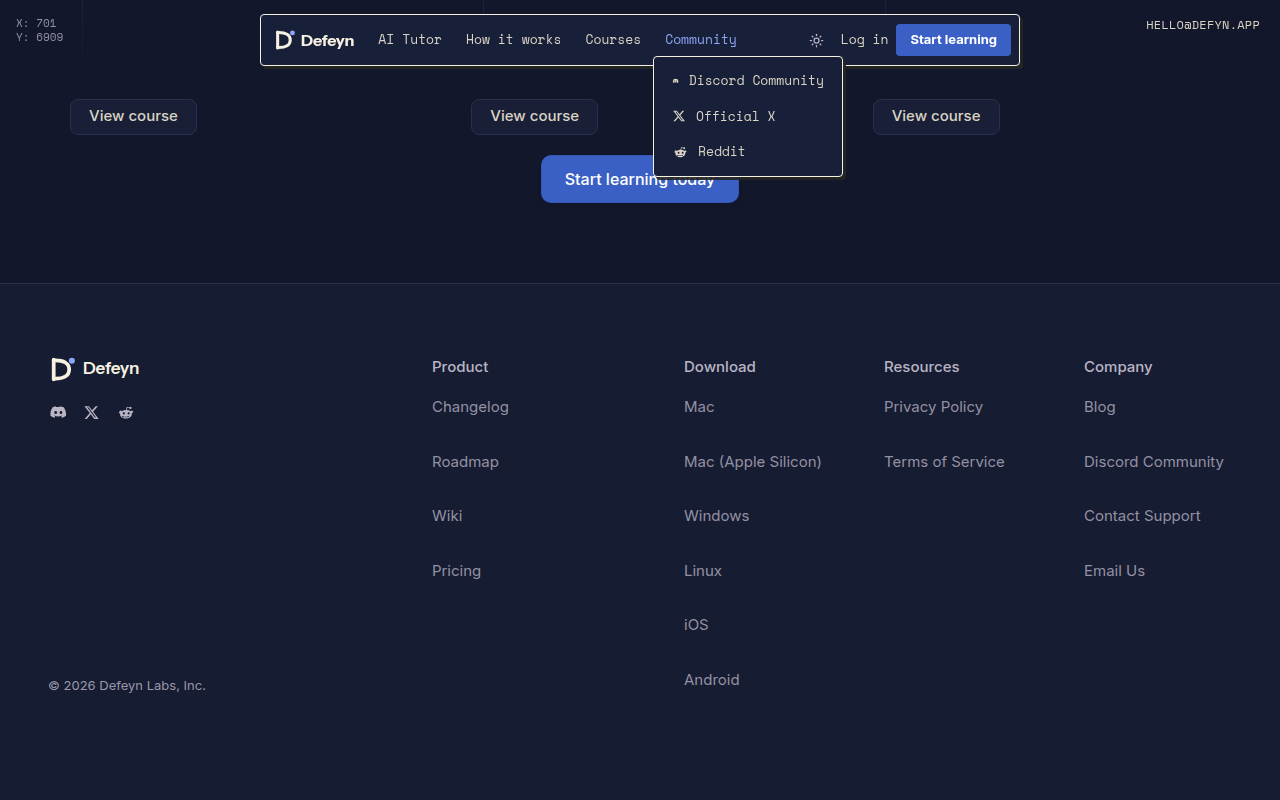
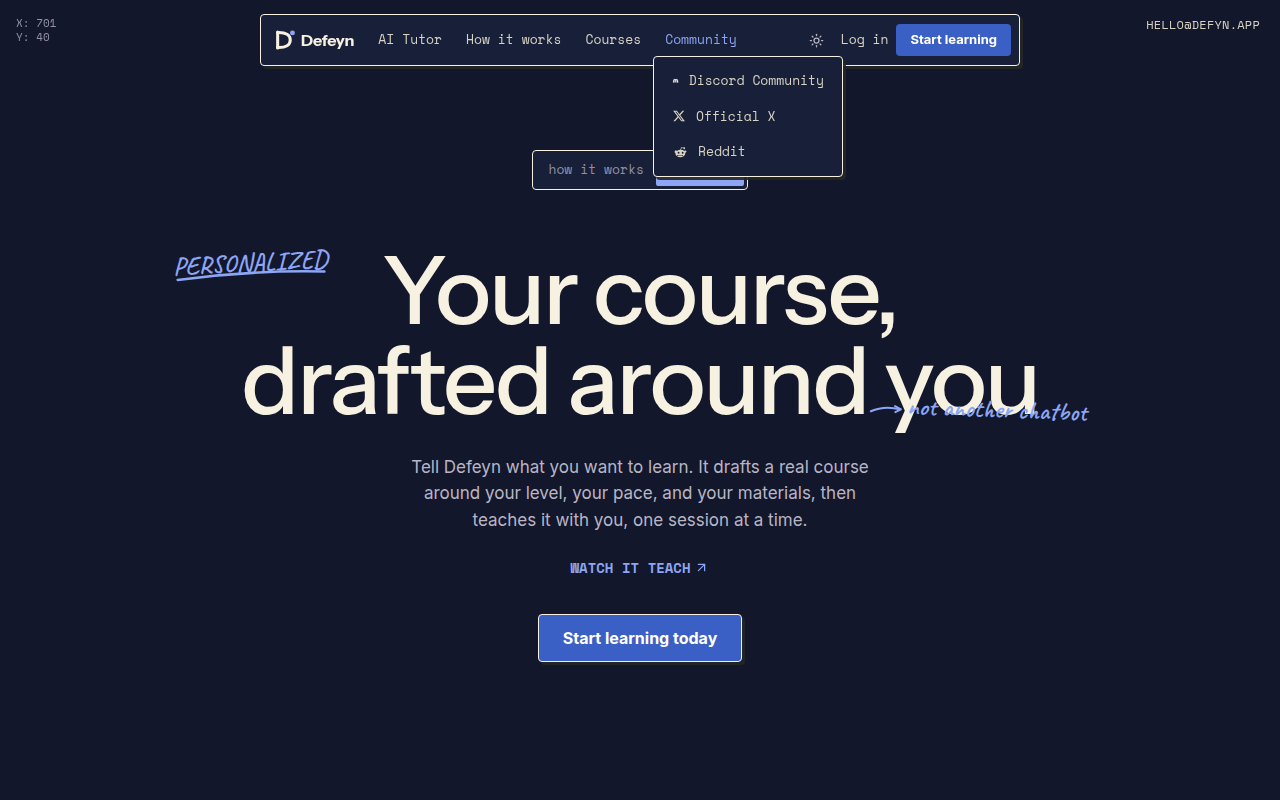
Standards review: sweep glossary copy and names
CONTEXT.md vocabulary is binding in user-visible copy: tutor replies and
the notes-handoff chip now say Cards/Citation (not 'note cards'/'source'),
the Board empty state drops 'notes', the LLM prompt can't leak 'note
cards' back into Card text, 'source unavailable' → 'Citation unavailable'
on a dead Card chip, and export.ts's whitespace-normalizer loses its
misleading 'escape' name. Remaining review findings are documented
judgement calls (quick-model slot is ticket-01 scope; wire-mirror types
are intentional).

diff --git a/server/src/tutor/engine.ts b/server/src/tutor/engine.ts
@@ -316,7 +316,7 @@ async function generateNotesCards(course: Course, doc: LessonDoc, topicIndex: nu
     {
       role: "system",
       content:
-        'You condense a lesson into note cards the learner can arrange on a canvas. Return JSON only: {"cards": [{"title": 2-5 words, "body": 1-2 sentences capturing that part\'s core, "part": <the Part number it came from>}]}. One to two cards per part. These are snapshots of the text — do not add new material.',
+        'You condense a lesson into Cards the learner can arrange on their Board. Return JSON only: {"cards": [{"title": 2-5 words, "body": 1-2 sentences capturing that part\'s core, "part": <the Part number it came from>}]}. One to two cards per part. These are snapshots of the text — do not add new material.',
     },
     {
       role: "user",
@@ -424,13 +424,13 @@ export async function* tutorTurnStream(
     if (context?.regenerate) {
       // regeneration never re-spawns Cards — the ones from the original turn
       // are already on the Board
-      const reply = `The notes from that turn are on your Board — I didn't create duplicates. Say the word if you'd like me to add more, or "continue" to keep learning.`;
+      const reply = `The Cards from that turn are already on your Board — I didn't create duplicates. Say the word if you'd like me to add more, or "continue" to keep learning.`;
       for (const delta of pace(reply)) yield { type: "text-delta", delta };
       yield { type: "block", block: { kind: "choices", options: DEFAULT_CHOICES } };
       return;
     }
     if (!session.lessonDoc) {
-      const reply = `Let's put a lesson on the table first — say "Continue" and I'll teach the current topic. Once there's material on the page, I'll condense it into note cards you can arrange on your Board.`;
+      const reply = `Let's put a lesson on the table first — say "Continue" and I'll teach the current topic. Once there's material on the page, I'll condense it into Cards you can arrange on your Board.`;
       for (const delta of pace(reply)) yield { type: "text-delta", delta };
       yield { type: "block", block: { kind: "choices", options: DEFAULT_CHOICES, selected: "Continue" } };
       return;
@@ -439,9 +439,9 @@ export async function* tutorTurnStream(
     const created = (await spawnBoardCards?.(cards)) as Array<{ id: string }> | undefined;
     session.pane = "whiteboard";
     const count = created?.length ?? cards.length;
-    const reply = `The lesson notes are ready — ${count} cards on your Board, each one a snapshot of the passage it came from (the source is cited on the card). Arrange them, connect them, make them yours; review should feel like a glance, not a reread.`;
+    const reply = `Done — ${count} Cards on your Board, each one a snapshot of the passage it came from (its Citation is on the Card). Arrange them, connect them, make them yours; review should feel like a glance, not a reread.`;
     for (const delta of pace(reply)) yield { type: "text-delta", delta };
-    yield { type: "block", block: { kind: "page-created", title: "Board", caption: `${count} note cards added`, target: "whiteboard" } };
+    yield { type: "block", block: { kind: "page-created", title: "Board", caption: `${count} Cards added`, target: "whiteboard" } };
     yield { type: "block", block: { kind: "choices", options: DEFAULT_CHOICES } };
     return;
   }

diff --git a/server/src/export.ts b/server/src/export.ts
@@ -7,7 +7,8 @@ import type { Board, BoardCard, BoardEdge, Course, LessonDoc } from "./tutor/dom
  * the quoted label so a Board export still shows where material came from.
  */
 
-function mdEscapeHeading(text: string): string {
+/** Collapse whitespace in generated headings (Markdown needs no escaping here). */
+function mdHeading(text: string): string {
   return text.replace(/\s+/g, " ").trim();
 }
 
@@ -24,12 +25,12 @@ function runsToMd(runs: Array<{ text: string; bold?: boolean; italic?: boolean }
 
 /** Course syllabus → Markdown (title, goal, topics with sections). */
 export function courseToMarkdown(course: Course): string {
-  const lines: string[] = [`# ${mdEscapeHeading(course.title)}`, "", `> Goal: ${course.goal}`, ""];
+  const lines: string[] = [`# ${mdHeading(course.title)}`, "", `> Goal: ${course.goal}`, ""];
   for (const topic of course.topics) {
-    lines.push(`## ${mdEscapeHeading(topic.title)}`);
+    lines.push(`## ${mdHeading(topic.title)}`);
     if (topic.description) lines.push("", topic.description);
     for (const s of topic.sections) {
-      lines.push("", `- **${s.number} ${mdEscapeHeading(s.title)}**${s.description ? ` — ${s.description}` : ""}`);
+      lines.push("", `- **${s.number} ${mdHeading(s.title)}**${s.description ? ` — ${s.description}` : ""}`);
     }
     lines.push("");
   }
@@ -40,9 +41,9 @@ export function courseToMarkdown(course: Course): string {
 export function lessonToMarkdown(doc: LessonDoc): string {
   const lines: string[] = [];
   for (const b of doc.blocks) {
-    if (b.kind === "h1") lines.push(`# ${mdEscapeHeading(b.text)}`, "");
-    else if (b.kind === "h2") lines.push(`## ${mdEscapeHeading(b.text)}`, "");
-    else if (b.kind === "h3") lines.push(`### ${mdEscapeHeading(b.text)}`, "");
+    if (b.kind === "h1") lines.push(`# ${mdHeading(b.text)}`, "");
+    else if (b.kind === "h2") lines.push(`## ${mdHeading(b.text)}`, "");
+    else if (b.kind === "h3") lines.push(`### ${mdHeading(b.text)}`, "");
     else lines.push(runsToMd(b.runs), "");
   }
   return lines.join("\n").replace(/\n{3,}/g, "\n\n").trimEnd() + "\n";
@@ -51,7 +52,7 @@ export function lessonToMarkdown(doc: LessonDoc): string {
 /** Board → Markdown: every Card (with creator and source citation) plus its
  * connections rendered as text arrows between card titles. */
 export function boardToMarkdown(board: Board, cards: BoardCard[], edges: BoardEdge[]): string {
-  const lines: string[] = [`# ${mdEscapeHeading(board.title)}`, ""];
+  const lines: string[] = [`# ${mdHeading(board.title)}`, ""];
   const titleOf = new Map(cards.map((c) => [c.id, c.content.title || "Untitled card"]));
   if (edges.length) {
     lines.push("## Connections", "");
@@ -65,7 +66,7 @@ export function boardToMarkdown(board: Board, cards: BoardCard[], edges: BoardEd
   if (cards.length) {
     lines.push("## Cards", "");
     for (const c of cards) {
-      lines.push(`### ${mdEscapeHeading(c.content.title || "Untitled card")}`, "");
+      lines.push(`### ${mdHeading(c.content.title || "Untitled card")}`, "");
       const meta: string[] = [c.creator === "tutor" ? "from the Tutor" : "your card"];
       if (c.citation) meta.push(`cites "${c.citation.label}"`);
       lines.push(`*${meta.join(" · ")}*`, "");

diff --git a/app/src/app/BoardPanel.tsx b/app/src/app/BoardPanel.tsx
@@ -297,7 +297,7 @@ function CardNode({ data, selected }: NodeProps<CardFlowNode>) {
           }`}
         >
           <BookMarked size={9} className={`shrink-0 ${citationDead ? 'text-faint' : ''}`} />
-          <span className="truncate">{citationDead ? 'source unavailable' : card.citation.label}</span>
+          <span className="truncate">{citationDead ? 'Citation unavailable' : card.citation.label}</span>
         </div>
       )}
     </div>
@@ -576,7 +576,7 @@ function BoardCanvas({ state, className = '', reload, openDoc }: BoardCanvasProp
             <div className="pointer-events-none absolute inset-0 z-10 flex flex-col items-center justify-center gap-1.5 px-8 text-center">
               <p className="text-[14.5px] font-medium text-ink-soft">Board empty</p>
               <p className="max-w-[320px] text-[13px] leading-[1.55] text-faint">
-                Generated notes and Cards you write land here. Use “+ Card” above, or double-click
+                Cards from the Tutor and your own land here. Use “+ Card” above, or double-click
                 the canvas.
               </p>
             </div>

diff --git a/app/src/services/api/mockTutorApi.ts b/app/src/services/api/mockTutorApi.ts
@@ -184,7 +184,7 @@ export const mockTutorApi: TutorApi = {
   },
 
   async deleteEdge(edgeId: string): Promise<void> {
-    for (const courseId of Object.keys(storeListCourseIds())) {
+    for (const courseId of courseIds()) {
       const board = store.getBoard(courseId);
       if (board?.edges.some((e) => e.id === edgeId)) {
         store.deleteEdge(courseId, edgeId);
@@ -275,14 +275,14 @@ export const mockTutorApi: TutorApi = {
 };
 
 function courseIdOfCard(cardId: string): string | null {
-  for (const courseId of Object.keys(storeListCourseIds())) {
+  for (const courseId of courseIds()) {
     const board = store.getBoard(courseId);
     if (board?.cards.some((c) => c.id === cardId)) return courseId;
   }
   return null;
 }
 
-function storeListCourseIds(): string[] {
+function courseIds(): string[] {
   return store.listSessions().map((s) => s.courseId).filter((c): c is string => !!c);
 }
 
